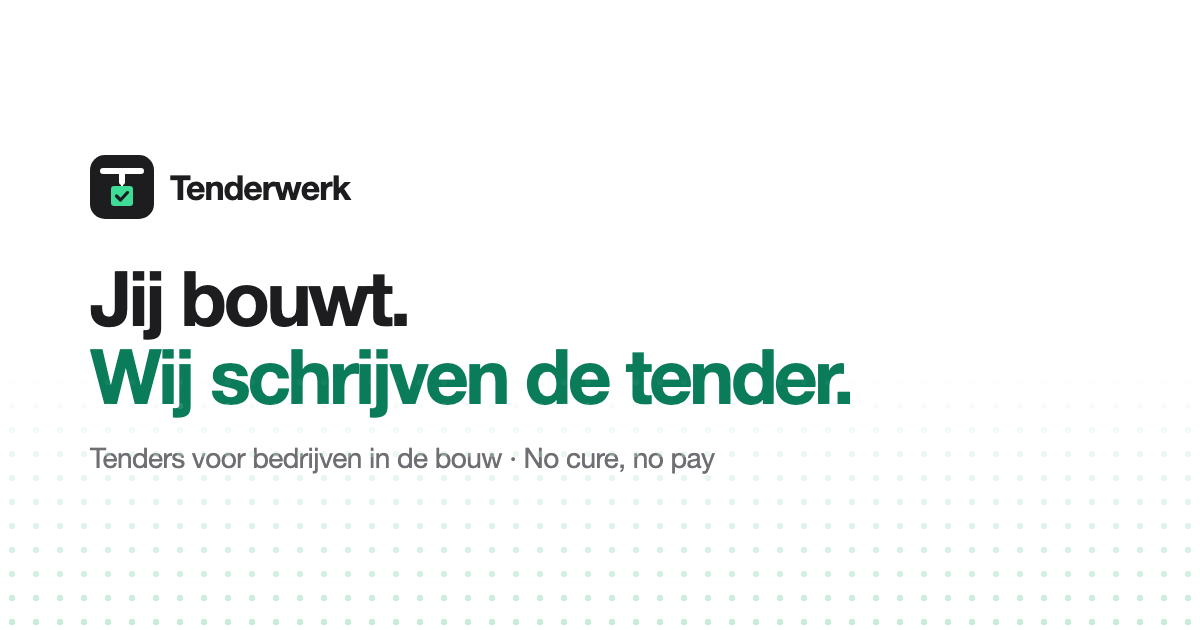
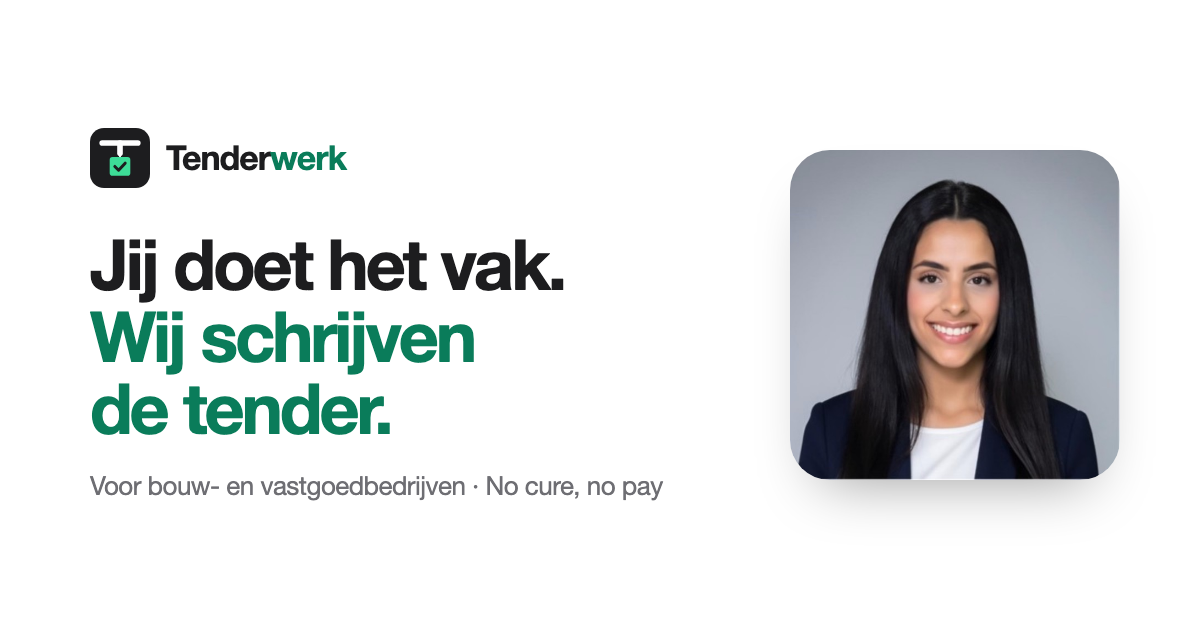
Persoonlijker en minder techy: bouw- en vastgoedbedrijven, foto Yasmine, geen terminal/codefont/rasters

Changed region(s): [[0.0617, 0.181, 0.9558, 0.8143], [0.9867, 0.9048, 1.0, 0.9952], [0.9867, 0.7841, 1.0, 0.8444]]

diff --git a/index.html b/index.html
@@ -3,12 +3,12 @@
 <head>
 <meta charset="utf-8">
 <meta name="viewport" content="width=device-width, initial-scale=1, viewport-fit=cover">
-<title>Tenderwerk · Tenders schrijven voor bedrijven in de bouw</title>
-<meta name="description" content="Tenderwerk schrijft aanbestedingen voor bedrijven in de bouw: aannemers, installateurs, infra, onderhoud en taxateurs. No cure, no pay.">
+<title>Tenderwerk · Tenders schrijven voor bouw- en vastgoedbedrijven</title>
+<meta name="description" content="Tenderwerk schrijft aanbestedingen voor bouw- en vastgoedbedrijven: aannemers, installateurs, infra, taxateurs en vastgoedbeheerders. No cure, no pay.">
 <meta name="theme-color" content="#ffffff">
 <meta property="og:type" content="website">
-<meta property="og:title" content="Tenderwerk · Jij bouwt. Wij schrijven de tender.">
-<meta property="og:description" content="Tenders schrijven voor bedrijven in de bouw. No cure, no pay.">
+<meta property="og:title" content="Tenderwerk · Jij doet het vak. Wij schrijven de tender.">
+<meta property="og:description" content="Tenders schrijven voor bouw- en vastgoedbedrijven. No cure, no pay.">
 <meta property="og:url" content="https://thissyass-cmyk.github.io/tenderwerk/">
 <meta property="og:locale" content="nl_NL">
 <meta property="og:image" content="https://thissyass-cmyk.github.io/tenderwerk/og.png">
@@ -22,7 +22,7 @@
 <link rel="icon" type="image/svg+xml" href="logo/mark.svg">
 <link rel="apple-touch-icon" href="apple-touch-icon.png">
 <script type="application/ld+json">
-{"@context":"https://schema.org","@type":"ProfessionalService","name":"Tenderwerk","url":"https://thissyass-cmyk.github.io/tenderwerk/","description":"Tenders schrijven voor bedrijven in de bouw, op basis van no cure, no pay.","areaServed":"NL","logo":"https://thissyass-cmyk.github.io/tenderwerk/apple-touch-icon.png","founder":{"@type":"Person","name":"Yasmine Dahhane"}}
+{"@context":"https://schema.org","@type":"ProfessionalService","name":"Tenderwerk","url":"https://thissyass-cmyk.github.io/tenderwerk/","description":"Tenders schrijven voor bouw- en vastgoedbedrijven, op basis van no cure, no pay.","areaServed":"NL","logo":"https://thissyass-cmyk.github.io/tenderwerk/apple-touch-icon.png","founder":{"@type":"Person","name":"Yasmine Dahhane"}}
 </script>
 <script>document.documentElement.className+=' js';if(matchMedia('(prefers-reduced-motion: reduce)').matches)document.documentElement.className+=' still'</script>
 <style>
@@ -49,11 +49,10 @@ h2{font-size:clamp(34px,5.2vw,56px);letter-spacing:-.04em}
 h3{font-size:24px;line-height:1.16;letter-spacing:-.025em}
 .sub{font-size:clamp(19px,2.2vw,24px);line-height:1.33;color:var(--ink-2);max-width:720px;letter-spacing:-.02em}
 .center .sub{margin-left:auto;margin-right:auto}
-.mono{font:500 13px/1 var(--mono);letter-spacing:.08em;text-transform:uppercase;color:var(--accent);display:inline-flex;align-items:center;gap:2px;margin-bottom:18px}
+.eyebrow{font-size:clamp(17px,1.8vw,21px);font-weight:600;color:var(--accent);margin-bottom:12px;letter-spacing:-.02em}
 .mono .cur{display:inline-block;width:.6em;height:1.15em;background:currentColor;margin-left:4px;animation:blink 1.1s steps(1) infinite}
 @keyframes blink{50%{opacity:0}}
-.grad{background:linear-gradient(90deg,#0a7c5a,#1c9c74 40%,#0b6e8a 70%,#0a7c5a);background-size:200% 100%;-webkit-background-clip:text;background-clip:text;color:transparent;animation:sheen 8s linear infinite}
-@keyframes sheen{to{background-position:-200% 0}}
+.grad{color:var(--accent)}
 
 /* scroll progress */
 .progress{position:fixed;top:0;left:0;height:2px;width:100%;transform-origin:0 50%;transform:scaleX(0);background:linear-gradient(90deg,var(--accent),var(--mint));z-index:60}
@@ -94,7 +93,7 @@ h3{font-size:24px;line-height:1.16;letter-spacing:-.025em}
 .bar>span{width:12px;height:12px;border-radius:50%}
 .bar>span:nth-child(1){background:#ff5f57}.bar>span:nth-child(2){background:#febc2e}.bar>span:nth-child(3){background:#28c840}
 .bar em{margin-left:12px;font-style:normal;font-size:13px;color:var(--ink-3)}
-.scan{display:flex;align-items:center;justify-content:space-between;gap:16px;padding:14px 22px;font:13px var(--mono);color:var(--ink-2);border-bottom:1px solid #f0f0f3;background:#fcfcfd}
+.scan{display:flex;align-items:center;justify-content:space-between;gap:16px;padding:14px 22px;font:14px var(--font);color:var(--ink-2);border-bottom:1px solid #f0f0f3;background:#fcfcfd}
 .scan b{color:var(--ink);font-weight:500}
 .scan .dot{display:inline-block;width:8px;height:8px;border-radius:50%;background:var(--accent);margin-right:8px;box-shadow:0 0 0 0 rgba(10,124,90,.5);animation:ping 1.6s infinite}
 @keyframes ping{0%{box-shadow:0 0 0 0 rgba(10,124,90,.45)}100%{box-shadow:0 0 0 10px rgba(10,124,90,0)}}
@@ -127,7 +126,7 @@ section{padding:clamp(88px,12vw,140px) 0}
 /* steps: GitHub-style accordion + panel */
 .night{background:var(--night);color:var(--night-ink);position:relative;overflow:hidden}
 .night .sub{color:var(--night-ink-2)}
-.night .mono{color:var(--mint)}
+.night .eyebrow{color:var(--mint)}
 .night::before{content:"";position:absolute;left:50%;top:-30%;width:900px;height:600px;transform:translateX(-50%);background:radial-gradient(closest-side,rgba(61,220,151,.16),transparent);pointer-events:none}
 .flow{display:grid;grid-template-columns:.9fr 1.1fr;gap:48px;margin-top:64px;align-items:start;position:relative}
 .steps{list-style:none;border-left:1px solid var(--night-line)}
@@ -138,17 +137,22 @@ section{padding:clamp(88px,12vw,140px) 0}
 @keyframes fill{to{transform:scaleY(1)}}
 .steps button{all:unset;display:flex;gap:14px;align-items:baseline;font-size:21px;font-weight:600;letter-spacing:-.02em;color:var(--night-ink-2);transition:color .3s;cursor:pointer}
 .steps button:focus-visible{outline:2px solid var(--mint);outline-offset:6px;border-radius:4px}
-.steps button span{font:500 13px var(--mono);color:#6e7681}
+.steps button span{font:600 14px var(--font);color:#6e7681}
 .steps li.on button{color:var(--night-ink)}
 .steps li.on button span{color:var(--mint)}
 .steps p{color:var(--night-ink-2);font-size:16px;max-height:0;overflow:hidden;opacity:0;transition:max-height .5s var(--ease),opacity .4s,margin .5s;margin-top:0}
 .steps li.on p{max-height:140px;opacity:1;margin-top:10px}
-.steps .you{display:inline-block;margin-left:10px;font:500 11px var(--mono);letter-spacing:.06em;text-transform:uppercase;color:var(--mint);border:1px solid rgba(61,220,151,.4);border-radius:980px;padding:3px 8px;vertical-align:middle}
+.steps .you{display:inline-block;margin-left:10px;font:600 12px var(--font);color:var(--mint);border:1px solid rgba(61,220,151,.4);border-radius:980px;padding:3px 8px;vertical-align:middle}
 .panel{position:relative;background:var(--night-2);border:1px solid var(--night-line);border-radius:16px;min-height:380px;overflow:hidden;box-shadow:0 30px 80px -30px rgba(0,0,0,.8)}
-.panel .head{display:flex;align-items:center;gap:8px;padding:12px 16px;border-bottom:1px solid var(--night-line);font:12px var(--mono);color:var(--night-ink-2)}
+.panel .head{display:flex;align-items:center;gap:8px;padding:12px 16px;border-bottom:1px solid var(--night-line);font:13px var(--font);color:var(--night-ink-2)}
 .panel .head i{width:10px;height:10px;border-radius:50%;background:#30363d}
-.scene{position:absolute;inset:45px 0 0;padding:22px 24px;opacity:0;transform:translateY(12px) scale(.985);transition:opacity .5s var(--ease),transform .6s var(--ease);pointer-events:none;font:14px/1.7 var(--mono);color:var(--night-ink)}
+.scene{position:absolute;inset:45px 0 0;padding:14px 24px;opacity:0;transform:translateY(12px) scale(.985);transition:opacity .5s var(--ease),transform .6s var(--ease);pointer-events:none;font:15px/1.6 var(--font);color:var(--night-ink)}
 .scene.on{opacity:1;transform:none;pointer-events:auto}
+.hit{display:flex;justify-content:space-between;align-items:center;gap:12px;padding:13px 0;border-bottom:1px solid var(--night-line);font-family:var(--font)}
+.hit strong{display:block;font-weight:600;font-size:15px}
+.hit small{color:var(--night-ink-2);font-size:13px}
+.hit em{font-style:normal;font-size:12px;font-weight:600;padding:4px 10px;border-radius:980px;background:#21262d;color:var(--night-ink-2);white-space:nowrap}
+.hit em.ok{background:rgba(61,220,151,.14);color:var(--mint)}
 .scene .c{color:#6e7681}.scene .g{color:var(--mint)}.scene .y{color:#e3b341}.scene .b{color:#79c0ff}
 .scene .ln{opacity:0;transform:translateX(-6px);transition:opacity .35s,transform .35s var(--ease)}
 .scene.on .ln{opacity:1;transform:none;transition-delay:calc(var(--i) * 180ms + .15s)}
@@ -162,7 +166,7 @@ section{padding:clamp(88px,12vw,140px) 0}
 .doc h4{font-size:17px;margin-bottom:8px;letter-spacing:-.02em}
 .doc .bar2{height:9px;border-radius:5px;background:#30363d;margin:10px 0;transform-origin:0 50%;transform:scaleX(0);transition:transform .8s var(--ease)}
 .scene.on .doc .bar2{transform:scaleX(var(--w));transition-delay:calc(var(--i) * 200ms + .3s)}
-.doc .score{display:flex;justify-content:space-between;font:13px var(--mono);color:var(--night-ink-2);margin-top:18px;padding-top:14px;border-top:1px solid var(--night-line)}
+.doc .score{display:flex;justify-content:space-between;font:13px var(--font);color:var(--night-ink-2);margin-top:18px;padding-top:14px;border-top:1px solid var(--night-line)}
 .doc .score b{color:var(--mint);font-weight:500}
 .win{display:grid;place-items:center;text-align:center;height:100%;padding-bottom:30px;font-family:var(--font)}
 .win .badge{width:72px;height:72px;border-radius:50%;background:rgba(61,220,151,.12);display:grid;place-items:center;margin:0 auto 18px;transform:scale(.5);opacity:0;transition:transform .7s cubic-bezier(.3,1.6,.5,1) .2s,opacity .3s .2s}
@@ -187,14 +191,14 @@ section{padding:clamp(88px,12vw,140px) 0}
 .sector.focus svg{stroke:var(--mint)}
 .sector.focus::before{background:radial-gradient(260px circle at var(--x) var(--y),rgba(61,220,151,.8),transparent 60%)}
 .sector.focus::after{background:radial-gradient(320px circle at var(--x) var(--y),rgba(61,220,151,.1),transparent 60%)}
-.tag{display:inline-block;margin-top:18px;font:500 11px var(--mono);letter-spacing:.06em;text-transform:uppercase;color:var(--mint);border:1px solid rgba(61,220,151,.5);border-radius:980px;padding:4px 10px}
+.tag{display:inline-block;margin-top:18px;font:600 12px var(--font);color:var(--mint);border:1px solid rgba(61,220,151,.5);border-radius:980px;padding:4px 10px}
 
 /* ncnp with contribution grid */
 .zero{position:relative;background:#000;color:#f5f5f7;overflow:hidden}
 .zero canvas{position:absolute;inset:0;width:100%;height:100%;opacity:.38;-webkit-mask-image:radial-gradient(ellipse at center,transparent 25%,#000 75%);mask-image:radial-gradient(ellipse at center,transparent 25%,#000 75%)}
 .zero .wrap{position:relative}
 .zero .sub{color:#a1a1a6}
-.zero .mono{color:var(--mint)}
+.zero .eyebrow{color:var(--mint)}
 .huge{font-size:clamp(64px,13vw,172px);font-weight:700;letter-spacing:-.06em;line-height:.95;margin:6px 0 12px;font-variant-numeric:tabular-nums}
 .three{display:grid;grid-template-columns:repeat(3,1fr);gap:20px;margin-top:80px;text-align:left}
 .three div{background:rgba(255,255,255,.04);border:1px solid rgba(255,255,255,.09);border-radius:20px;padding:28px;backdrop-filter:blur(6px);-webkit-backdrop-filter:blur(6px)}
@@ -304,9 +308,25 @@ footer a{color:var(--ink-2)}
 @keyframes ring{0%,40%,100%{transform:rotate(0)}5%,15%,25%{transform:rotate(-14deg)}10%,20%,30%{transform:rotate(14deg)}}
 @keyframes wave{0%{transform:scale(1);opacity:.5}40%{transform:scale(1.7);opacity:0}100%{opacity:0}}
 
+
+/* about me */
+.me{display:grid;grid-template-columns:.85fr 1.15fr;gap:72px;align-items:center}
+.photo{position:relative;margin:0}
+.photo img{display:block;width:100%;height:auto;aspect-ratio:1;object-fit:cover;object-position:50% 30%;border-radius:32px;box-shadow:0 30px 60px -30px rgba(0,0,0,.35)}
+.photo figcaption{position:absolute;left:18px;bottom:18px;right:18px;background:rgba(255,255,255,.78);backdrop-filter:saturate(180%) blur(16px);-webkit-backdrop-filter:saturate(180%) blur(16px);border-radius:16px;padding:12px 16px;display:flex;flex-direction:column;line-height:1.3}
+.photo figcaption strong{font-size:16px}
+.photo figcaption span{font-size:13px;color:var(--ink-2)}
+.me .quote{margin:0;text-align:left;font-size:clamp(28px,3.6vw,42px)}
+.me .aboutcopy{margin:28px 0 0;text-align:left;max-width:560px}
+.direct{display:flex;align-items:center;gap:14px;margin-top:28px;padding:14px 18px 14px 14px;background:#fff;border-radius:18px;max-width:380px}
+.direct img{width:56px;height:56px;border-radius:50%;object-fit:cover;object-position:50% 25%}
+.direct strong{display:block;font-size:16px}
+.direct span{font-size:14px;color:var(--ink-2)}
+@media (max-width:900px){.me{grid-template-columns:1fr;gap:40px}.photo{max-width:420px}}
+
 /* reveal */
-.js .reveal{opacity:0;transform:translateY(30px);filter:blur(6px);transition:opacity .8s var(--ease),transform .8s var(--ease),filter .8s var(--ease)}
-.js .reveal.in{opacity:1;transform:none;filter:none}
+.js .reveal{opacity:0;transform:translateY(30px);transition:opacity .8s var(--ease),transform .8s var(--ease)}
+.js .reveal.in{opacity:1;transform:none}
 .d1{transition-delay:.08s!important}.d2{transition-delay:.16s!important}.d3{transition-delay:.24s!important}
 .still .reveal,.still .reveal.in{opacity:1!important;transform:none!important;filter:none!important;transition:none!important}
 @media (prefers-reduced-motion:reduce){html{scroll-behavior:auto}*,*::before,*::after{animation:none!important}}
@@ -354,11 +374,10 @@ footer a{color:var(--ink-2)}
 <main id="top">
 
 <section class="hero" style="padding-bottom:0">
-  <canvas class="grid" data-grid="light" aria-hidden="true"></canvas>
   <div class="wrap">
-    <p class="mono reveal"><span data-type="Tenderschrijven voor de bouw">Tenderschrijven voor de bouw</span><span class="cur"></span></p>
-    <h1 class="reveal d1">Jij bouwt.<br><span class="grad">Wij schrijven de tender.</span></h1>
-    <p class="sub reveal d2">We vinden de aanbestedingen die bij je passen en schrijven de hele inschrijving. No cure, no pay.</p>
+    <p class="eyebrow reveal">Tenders voor bouw en vastgoed</p>
+    <h1 class="reveal d1">Jij doet het vak.<br><span class="grad">Wij schrijven de tender.</span></h1>
+    <p class="sub reveal d2">Voor aannemers, installateurs, taxateurs en vastgoedbeheerders. We zoeken de aanbestedingen die bij je passen en schrijven de hele inschrijving. No cure, no pay.</p>
     <div class="ctas reveal d3">
       <a class="btn" href="#contact">Plan een belafspraak</a>
       <a class="more" href="#werkwijze">Zo werkt het</a>
@@ -368,7 +387,7 @@ footer a{color:var(--ink-2)}
   <div class="stage" aria-hidden="true">
     <div class="window" id="win">
       <div class="bar"><span></span><span></span><span></span><em>Open tenders voor jouw vakgebied</em></div>
-      <div class="scan" id="scan"><span><span class="dot"></span><span id="scanText">TenderNed doorzoeken</span></span><span><b id="scanN">0</b><span class="hide-s"> bouwtenders</span></span></div>
+      <div class="scan" id="scan"><span><span class="dot"></span><span id="scanText">TenderNed bekijken</span></span><span><b id="scanN">0</b><span class="hide-s"> tenders</span></span></div>
       <div class="meter"><i id="meter"></i></div>
       <div class="list">
         <div class="item" style="--d:0s"><strong>Taxatiediensten gemeente Rotterdam</strong><small>Raamovereenkomst tot 2031 · sluit 1 februari 2027</small><span class="pill go">Topkans</span></div>
@@ -382,10 +401,10 @@ footer a{color:var(--ink-2)}
 
 <section class="gray">
   <div class="wrap center">
-    <p class="mono reveal">Er ligt meer werk klaar dan je denkt</p>
-    <h2 class="reveal d1">Honderden bouwtenders.<br>Elke week.</h2>
+    <p class="eyebrow reveal">Er ligt meer werk klaar dan je denkt</p>
+    <h2 class="reveal d1">Honderden tenders.<br>Elke week.</h2>
     <div class="stats">
-      <div class="stat reveal"><strong data-count="430" data-suffix="+">430+</strong><span>open bouwtenders op TenderNed</span></div>
+      <div class="stat reveal"><strong data-count="430" data-suffix="+">430+</strong><span>open tenders in bouw en vastgoed</span></div>
       <div class="stat reveal d1"><strong data-count="0" data-prefix="€">€0</strong><span>vooraf, ook als je niet wint</span></div>
       <div class="stat reveal d2"><strong data-count="20" data-suffix=" min">20 min</strong><span>van jouw tijd om te starten</span></div>
     </div>
@@ -395,9 +414,9 @@ footer a{color:var(--ink-2)}
 
 <section class="build center" id="van-tender-tot-gegund">
   <div class="wrap">
-    <p class="mono reveal">Van tender tot gegund</p>
-    <h2 class="reveal d1">Wij tillen je inschrijving<br>naar de top.</h2>
-    <p class="sub reveal d2" style="margin-top:20px">Jij levert de bouwstenen. Wij zetten ze op hun plek, precies zoals de beoordelaar het wil zien.</p>
+    <p class="eyebrow reveal">Van tender tot gegund</p>
+    <h2 class="reveal d1">Van leidraad<br>tot gunning.</h2>
+    <p class="sub reveal d2" style="margin-top:20px">Jij levert je referenties, cv's en certificaten. Wij maken er een inschrijving van die scoort op de gunningscriteria.</p>
   </div>
   <div class="scene-wrap reveal d2">
     <svg class="cr" id="crane" viewBox="0 0 1000 400" role="img" aria-label="Een bouwkraan tilt een inschrijving op een gebouw, waarna er een groen vinkje en de vlag Gegund verschijnen">
@@ -445,7 +464,6 @@ footer a{color:var(--ink-2)}
       <!-- ground -->
       <path d="M0 360h1000" stroke="#1d1d1f" stroke-width="3"/>
     </svg>
-    <div class="captions"><span>Jouw inschrijving</span><span>Gegund</span><span>Elke tender, opnieuw</span></div>
   </div>
   <div class="groundline"></div>
 </section>
@@ -453,7 +471,7 @@ footer a{color:var(--ink-2)}
 <section class="night" id="werkwijze">
   <div class="wrap">
     <div class="center">
-      <p class="mono reveal">Werkwijze</p>
+      <p class="eyebrow reveal">Werkwijze</p>
       <h2 class="reveal d1">Vier stappen.<br>Twee daarvan zijn voor jou.</h2>
       <p class="sub reveal d2" style="margin-top:20px">Je hoeft geen aanbestedingsleidraad van 70 pagina's door te lezen. Dat doen wij.</p>
     </div>
@@ -465,15 +483,12 @@ footer a{color:var(--ink-2)}
         <li><button type="button" aria-controls="s3"><span>04</span>Jij keurt goed <em class="you">Jouw rol</em></button><p>Je leest mee, tekent wat getekend moet worden en de inschrijving gaat de deur uit. Gegund? Pas dan komt er een factuur.</p></li>
       </ol>
       <div class="panel" aria-live="polite">
-        <div class="head"><i></i><i></i><i></i><span style="margin-left:8px" id="panelTitle">scout</span></div>
+        <div class="head"><i></i><i></i><i></i><span style="margin-left:8px" id="panelTitle">Gevonden tenders</span></div>
         <div class="scene on" id="s0">
-          <div class="ln" style="--i:0"><span class="c">$</span> tenderwerk zoek <span class="b">--sector</span> taxatie</div>
-          <div class="ln" style="--i:1"><span class="c">→ 3.121 publicaties gelezen</span></div>
-          <div class="ln" style="--i:2"><span class="g">✓</span> Taxatiediensten Rotterdam <span class="y">topkans</span></div>
-          <div class="ln" style="--i:3"><span class="g">✓</span> WOZ Walcheren en Schouwen <span class="y">topkans</span></div>
-          <div class="ln" style="--i:4"><span class="c">✕ ICT-beheer gemeente</span> <span class="c">overslaan</span></div>
-          <div class="ln" style="--i:5"><span class="c">✕ Taxatie, sluit over 6 dagen</span> <span class="c">te krap</span></div>
-          <div class="ln" style="--i:6"><span class="c">→</span> <span class="g">2 kansen voor jou</span></div>
+          <div class="hit ln" style="--i:0"><div><strong>Taxatiediensten gemeente Rotterdam</strong><small>Sluit 1 februari 2027</small></div><em class="ok">Past bij je</em></div>
+          <div class="hit ln" style="--i:1"><div><strong>WOZ Walcheren en Schouwen</strong><small>Sluit 1 december 2026</small></div><em class="ok">Past bij je</em></div>
+          <div class="hit ln" style="--i:2"><div><strong>Onderhoud schoolgebouwen</strong><small>Referentie te klein</small></div><em>Niet doen</em></div>
+          <div class="hit ln" style="--i:3"><div><strong>Taxatie agrarische grond</strong><small>Sluit over 6 dagen</small></div><em>Te krap</em></div>
         </div>
         <div class="scene" id="s1">
           <div class="check" style="--i:0"><i></i>Referentieproject passend bij de opdracht</div>
@@ -513,14 +528,14 @@ footer a{color:var(--ink-2)}
 <section id="voor-wie">
   <div class="wrap">
     <div class="center">
-      <p class="mono reveal">Voor wie</p>
-      <h2 class="reveal d1">Alleen de bouw.<br>Daarin zijn we goed.</h2>
+      <p class="eyebrow reveal">Voor wie</p>
+      <h2 class="reveal d1">Bouw en vastgoed.<br>Daar zijn we goed in.</h2>
       <p class="sub reveal d2" style="margin-top:20px">We spreken de taal van de beoordelaar: bouwteam, EMVI, MKI, BPKV en NEN 2767.</p>
     </div>
     <div class="sectors">
       <div class="sector focus reveal">
         <svg viewBox="0 0 40 40"><path d="M6 34V16l14-10 14 10v18"/><path d="M14 34V22h12v12"/><path d="M17 27h6"/></svg>
-        <h3>Taxateurs en vastgoedadvies</h3><p>Taxaties, WOZ, MJOP en NEN 2767-conditiemetingen.</p><span class="tag">Nu onze focus</span>
+        <h3>Taxateurs en WOZ</h3><p>Taxatiediensten, WOZ-waardering en vastgoedadvies voor gemeenten en corporaties.</p><span class="tag">Hier beginnen we mee</span>
       </div>
       <div class="sector reveal d1">
         <svg viewBox="0 0 40 40"><path d="M6 34h28"/><path d="M10 34V14h12v20"/><path d="M22 20h8v14"/><path d="M14 19h4M14 24h4M14 29h4"/></svg>
@@ -540,16 +555,15 @@ footer a{color:var(--ink-2)}
       </div>
       <div class="sector reveal d2">
         <svg viewBox="0 0 40 40"><rect x="8" y="6" width="24" height="28" rx="3"/><path d="M14 14h12M14 20h12M14 26h7"/></svg>
-        <h3>Bouwadvies en engineering</h3><p>Bouwkundig advies, constructie, directievoering en toezicht.</p>
+        <h3>Vastgoedbeheer en MJOP</h3><p>Meerjarenonderhoudsplannen, NEN 2767-conditiemetingen, beheer en bouwkundig advies.</p>
       </div>
     </div>
   </div>
 </section>
 
 <section class="zero center" id="no-cure-no-pay">
-  <canvas data-grid="dark" aria-hidden="true"></canvas>
   <div class="wrap">
-    <p class="mono reveal">No cure, no pay</p>
+    <p class="eyebrow reveal">No cure, no pay</p>
     <p class="huge reveal d1">€0 vooraf.</p>
     <p class="sub reveal d2">Win je de opdracht, dan betaal je een vooraf afgesproken percentage. Win je niet, dan betaal je niets. Wij lopen het risico.</p>
     <div class="three">
@@ -560,21 +574,25 @@ footer a{color:var(--ink-2)}
   </div>
 </section>
 
-<section class="center">
-  <div class="wrap">
-    <p class="quote" id="quote">“Goede bouwbedrijven verliezen tenders niet op vakmanschap. Ze verliezen ze op papier.”</p>
-    <div class="byline reveal">
-      <span class="avatar">YD</span>
-      <div><strong>Yasmine Dahhane</strong><br><small>Oprichter Tenderwerk</small></div>
+<section id="over-mij">
+  <div class="wrap me">
+    <figure class="photo reveal">
+      <img src="img/yasmine.jpg" width="600" height="600" alt="Yasmine Dahhane, oprichter van Tenderwerk" loading="lazy">
+      <figcaption><strong>Yasmine Dahhane</strong><span>Oprichter Tenderwerk · Vastgoedconsultant</span></figcaption>
+    </figure>
+    <div>
+      <p class="eyebrow reveal">Over mij</p>
+      <p class="quote" id="quote">“Goede bedrijven verliezen tenders zelden op vakmanschap. Ze verliezen ze op papier.”</p>
+      <p class="aboutcopy reveal d1">Ik ben Yasmine, vastgoedconsultant. Met een achtergrond in vastgoed zag ik hoe vaak goede bedrijven niet eens meedoen aan aanbestedingen. Daarom ben ik Tenderwerk begonnen. Software helpt me om tenders te vinden en de stukken door te nemen. Elke tekst lees en controleer ik zelf, en jij keurt alles goed voordat er iets wordt ingediend.</p>
+      <p class="reveal d2" style="margin-top:28px"><a class="btn" href="#contact">Bel even met me</a></p>
     </div>
-    <p class="aboutcopy reveal d1">Met een achtergrond in vastgoed zag ik hoe vaak goede bedrijven niet eens meedoen aan aanbestedingen. Daarom combineer ik kennis van bouw en aanbesteden met slimme tools. Zo werk ik snel, zonder in te leveren op kwaliteit. Elke inschrijving wordt door een mens gecontroleerd en door jou goedgekeurd.</p>
   </div>
 </section>
 
 <section class="gray" id="vragen">
   <div class="wrap">
     <div class="center">
-      <p class="mono reveal">Vragen</p>
+      <p class="eyebrow reveal">Vragen</p>
       <h2 class="reveal d1">Goed om te weten.</h2>
     </div>
     <div class="faq reveal d2">
@@ -582,7 +600,7 @@ footer a{color:var(--ink-2)}
       <details><summary>Hoeveel tijd kost het mij?</summary><div class="a"><p>Een belgesprek van ongeveer 20 minuten, het aanleveren van referentieprojecten, cv's en certificaten (zoals VCA, ISO of BRL), en het doorlezen en ondertekenen van de definitieve versie. De rest doen wij.</p></div></details>
       <details><summary>Wie dient de inschrijving in?</summary><div class="a"><p>Jouw bedrijf is en blijft de inschrijver. Met jouw volmacht kunnen wij het uploaden regelen, of jij doet dat zelf. De prijs of begroting maak jij, en documenten zoals het UEA en het inschrijvingsbiljet onderteken je zelf.</p></div></details>
       <details><summary>Wat als ik niet aan de eisen voldoe?</summary><div class="a"><p>Dan zeggen we dat direct na het eerste gesprek. Soms is een combinatie met een ander bedrijf of een onderaannemer een oplossing; dan denken we mee.</p></div></details>
-      <details><summary>Gebruiken jullie AI?</summary><div class="a"><p>Ja, voor het zoeken van tenders en het analyseren van stukken. Dat maakt ons snel. Elke tekst wordt gecontroleerd en jij keurt alles goed voordat er iets wordt ingediend. Feiten over jouw bedrijf komen altijd van jou.</p></div></details>
+      <details><summary>Gebruiken jullie AI?</summary><div class="a"><p>Ja, als hulpmiddel bij het zoeken van tenders en het doornemen van stukken. Het schrijfwerk controleer ik zelf, regel voor regel, en jij keurt alles goed. Feiten over jouw bedrijf komen altijd van jou.</p></div></details>
     </div>
   </div>
 </section>
@@ -590,9 +608,10 @@ footer a{color:var(--ink-2)}
 <section class="gray" id="contact" style="padding-top:0">
   <div class="wrap contact">
     <div class="reveal">
-      <p class="mono">Contact</p>
+      <p class="eyebrow">Contact</p>
       <h2>Ligt er een tender voor je klaar?</h2>
       <p class="sub" style="margin-top:20px"><span class="ring" aria-hidden="true"><svg viewBox="0 0 24 24"><path d="M6.6 10.8a15.1 15.1 0 0 0 6.6 6.6l2.2-2.2a1 1 0 0 1 1-.25 11.4 11.4 0 0 0 3.6.57 1 1 0 0 1 1 1V20a1 1 0 0 1-1 1A17 17 0 0 1 3 4a1 1 0 0 1 1-1h3.5a1 1 0 0 1 1 1c0 1.25.2 2.45.57 3.57a1 1 0 0 1-.25 1z"/></svg></span>Laat je gegevens achter. Ik bel je binnen één werkdag terug.</p>
+      <div class="direct"><img src="img/yasmine.jpg" alt="" width="56" height="56" loading="lazy"><div><strong>Je spreekt mij direct</strong><span>Geen callcenter, geen doorverbinden.</span></div></div>
       <ul class="checks">
         <li>Met de tenders die nu openstaan voor jouw vakgebied</li>
         <li>Eerlijk advies: meedoen of niet</li>
@@ -616,7 +635,7 @@ footer a{color:var(--ink-2)}
         <div class="field">
           <select id="spec" name="specialisme">
             <option>Taxaties / WOZ / MJOP</option><option>Aannemer B&amp;U</option><option>Installaties</option><option>Infra / GWW</option>
-            <option>Onderhoud / verduurzaming</option><option>Bouwadvies / engineering</option><option>Anders</option>
+            <option>Onderhoud / verduurzaming</option><option>Vastgoedbeheer / MJOP</option><option>Bouwadvies / engineering</option><option>Anders</option>
           </select><label for="spec">Vakgebied</label>
         </div>
         <div class="field"><textarea id="bericht" name="bericht" placeholder=" "></textarea><label for="bericht">Bericht (optioneel)</label></div>
@@ -631,7 +650,7 @@ footer a{color:var(--ink-2)}
 
 <footer>
   <div class="wrap">
-    <span>Copyright © 2026 Tenderwerk. Tenders schrijven voor bedrijven in de bouw.</span>
+    <span>Copyright © 2026 Tenderwerk. Tenders schrijven voor bouw- en vastgoedbedrijven.</span>
     <span><a href="#no-cure-no-pay">No cure, no pay</a> · <a href="#contact">Contact</a></span>
   </div>
 </footer>
@@ -672,11 +691,11 @@ footer a{color:var(--ink-2)}
   /* hero window: scan, then results */
   var win = $('#win'), meter = $('#meter'), n = $('#scanN'), scan = $('#scan'), st = $('#scanText');
   function play(){
-    if(still){ n.textContent='432'; meter.style.transform='scaleX(1)'; st.textContent='Klaar: 4 tenders passen bij jou'; scan.classList.add('done'); win.classList.add('play'); return }
+    if(still){ n.textContent='432'; meter.style.transform='scaleX(1)'; st.textContent='4 tenders passen bij jou'; scan.classList.add('done'); win.classList.add('play'); return }
     var t0=null, dur=1800, to=432;
     function f(t){ t0=t0||t; var p=Math.min(1,(t-t0)/dur), e=1-Math.pow(1-p,3);
       n.textContent=Math.round(to*e); meter.style.transform='scaleX('+e+')';
-      if(p<1) requestAnimationFrame(f); else { st.textContent='Klaar: 4 tenders passen bij jou'; scan.classList.add('done'); win.classList.add('play') } }
+      if(p<1) requestAnimationFrame(f); else { st.textContent='4 tenders passen bij jou'; scan.classList.add('done'); win.classList.add('play') } }
     requestAnimationFrame(f);
   }
   if(win) setTimeout(function(){onView(win,play,{threshold:.25})}, 500);
@@ -696,7 +715,7 @@ footer a{color:var(--ink-2)}
   onScroll();
 
   /* werkwijze: GitHub-style auto-advancing steps */
-  var steps = $$('#steps li'), scenes = $$('.scene'), title = $('#panelTitle'), names = ['scout','belgesprek','writer','gegund'];
+  var steps = $$('#steps li'), scenes = $$('.scene'), title = $('#panelTitle'), names = ['Gevonden tenders','Belgesprek','Inschrijving','Uitslag'];
   var cur = 0, timer = null, DUR = 7000, list = $('#steps');
   function show(k, user){
     cur = k;
